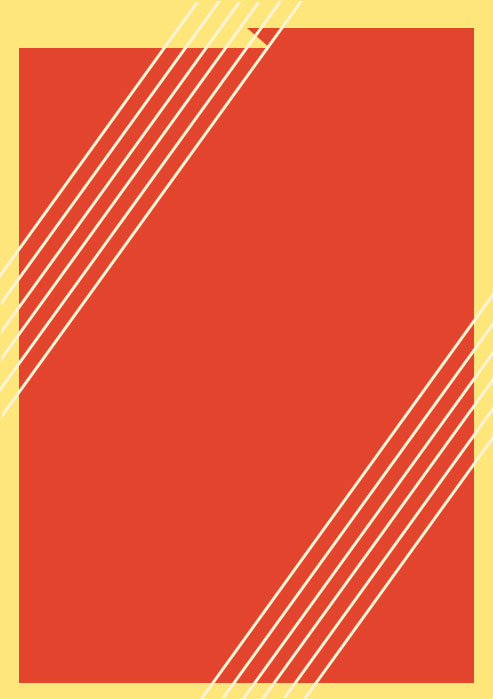
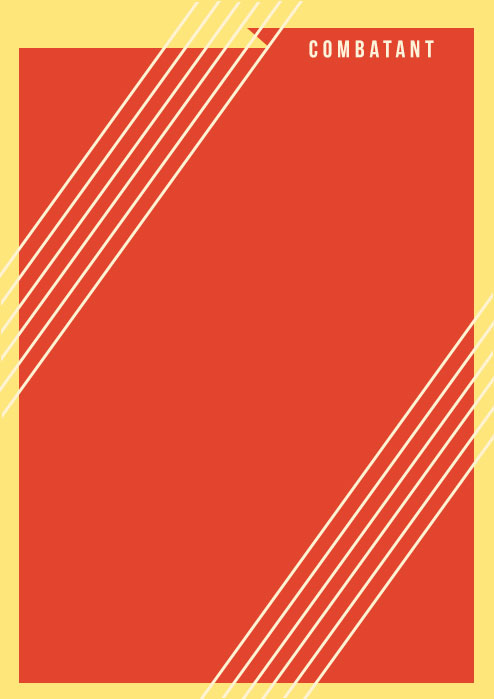
Further styling to bio.html

diff --git a/css/style.css b/css/style.css
@@ -207,20 +207,58 @@ form input {
     padding: 40px 0;
     font-size: 1.5em; }
 
+.card {
+  background-color: #fff4d5; }
+
 .combatant {
-  padding-left: 31px;
+  text-align: center;
+  padding-top: 70px;
   background-image: url(../img/bio_bg_03.jpg);
   background-size: contain;
   background-repeat: no-repeat;
   width: 50%;
   float: left;
   box-sizing: border-box; }
+  .combatant h1 {
+    font-family: Impact;
+    text-transform: uppercase; }
+    .combatant h1:first-letter {
+      color: red;
+      font-size: 5em; }
 
 .character_bio {
-  background-color: #fff4d5;
   width: 50%;
   float: left;
   box-sizing: border-box; }
+  .character_bio a {
+    display: inline-block;
+    padding: 20px 120px;
+    text-decoration: none;
+    color: #fff;
+    background-color: red;
+    text-align: center; }
+  .character_bio h1 {
+    background-color: blue;
+    font-family: Impact; }
+
+.power_rating {
+  background-image: url(../img/power_ratings.jpg);
+  background-repeat: no-repeat;
+  background-size: contain; }
+  .power_rating div {
+    list-style: none;
+    color: #000; }
+    .power_rating div h4 {
+      padding: 0;
+      margin: 0; }
+
+.wins_losses {
+  background-color: #fff;
+  color: #000; }
+
+.description {
+  background-color: #fff;
+  color: #000; }
 
 body {
   font-family: "bebas_neue_regularregular";

diff --git a/scss/bio.scss b/scss/bio.scss
@@ -1,19 +1,68 @@
+
+.card{
+	background-color: #fff4d5;
+}
+
 .combatant{
-	padding-left: 31px;
+	text-align: center;
+	padding-top: 70px;
 	background-image: url(../img/bio_bg_03.jpg);
 	background-size: contain;
 	background-repeat: no-repeat;
 	width: 50%;
 	float: left;
 	box-sizing: border-box;
-		img{
-
+		h1{
+			font-family: Impact;
+			text-transform: uppercase;
+			&:first-letter{
+					color: red;
+		  			font-size: 5em;
+  			}
 		}
 }
 
 .character_bio{
-	background-color: #fff4d5;
 	width: 50%;
 	float: left;
 	box-sizing: border-box;
+	
+	a{
+	    display: inline-block;
+	    padding: 20px 120px;
+	    text-decoration: none;
+	    color: #fff;
+	    background-color: red;
+	    text-align: center;
+	}
+
+	h1{
+		background-color: blue;
+		font-family: Impact;
+	}
+}
+
+.power_rating{
+	background-image: url(../img/power_ratings.jpg);
+	background-repeat: no-repeat;
+	background-size: contain;
+	
+	div{
+		list-style: none;
+		color: #000;
+		h4{
+			padding: 0;
+			margin: 0;
+		}
+	}
+}
+
+.wins_losses{
+	background-color: #fff;
+	color: #000;
+}
+
+.description{
+	background-color: #fff;
+	color: #000;
 }

diff --git a/bio.html b/bio.html
@@ -17,33 +17,32 @@
 	
 	<main class="card clearfix">
 		<div class="combatant">
-			<h2>Combatant</h2>
 			<img src="img/detail.jpg" alt="character">
 			<h1>Character</h1>
 		</div>
 		<div class="character_bio">
 			<h1>Character</h1>
-			<img src="" alt="character">
+			<img src="img/portrait_medium.jpg" alt="character">
 			<div class="power_rating">
 				<ul>
-					<li class="strength">
+					<div class="strength">
 						<h4>strength</h4>
-					</li>
-					<li class="speed">
+					</div>
+					<div class="speed">
 						<h4>speed</h4>
-					</li>
-					<li class="fighting">
+					</div>
+					<div class="fighting">
 						<h4>fighting</h4>
-					</li>
-					<li class="energy">
+					</div>
+					<div class="energy">
 						<h4>energy</h4>
-					</li>
-					<li class="durability">
+					</div>
+					<div class="durability">
 						<h4>durability</h4>
-					</li>
-					<li class="intelligence">
+					</div>
+					<div class="intelligence">
 						<h4>intelligence</h4>
-					</li>
+					</div>
 				</ul>
 			</div>
 			<div class="wins_losses">
